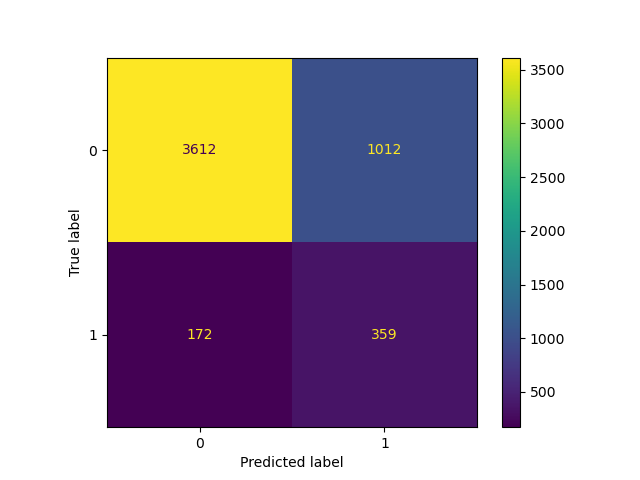
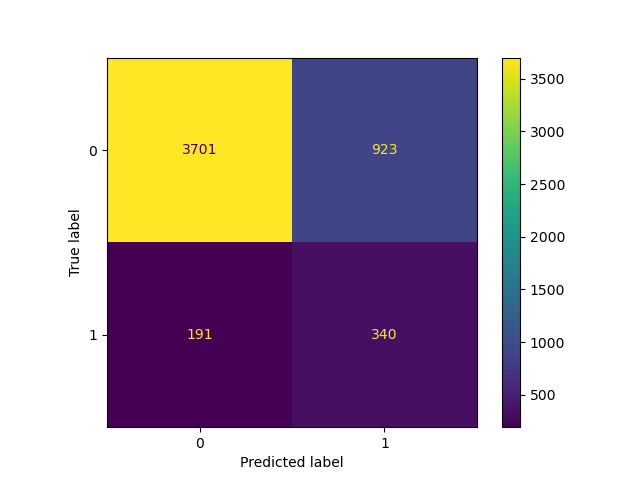
corrected early stopping procedure

diff --git a/src/utils.py b/src/utils.py
@@ -1,6 +1,4 @@
 import logging
-import numpy as np
-import torch
 
 class EarlyStopping:
     """Early stops the training if validation loss doesn't improve after a given patience."""
@@ -18,18 +16,21 @@ class EarlyStopping:
 
     def __call__(self, criterion, opt_mode):
         if opt_mode == 'min':
-            score = -criterion
+            if self.best_score is None: self.best_score = criterion
+            elif criterion >= self.best_score - self.delta:
+                self.counter += 1
+                if self.counter >= self.patience: self.early_stop = True
+            else:
+                self.counter = 0
+                self.best_score = criterion
         elif opt_mode == 'max':
-            score = criterion
+            if self.best_score is None: self.best_score = criterion
+            elif criterion <= self.best_score + self.delta:
+                self.counter += 1
+                if self.counter >= self.patience: self.early_stop = True
+            else:
+                self.counter = 0
+                self.best_score = criterion
         else:
             logging.warning("Unsupported optimizing criterion.")
 
-        if self.best_score is None:
-            self.best_score = score
-        elif score <= self.best_score + self.delta:
-            self.counter += 1
-            if self.counter >= self.patience:
-                self.early_stop = True
-        else:
-            self.counter = 0
-            self.best_score = score

diff --git a/som_gnn.py b/som_gnn.py
@@ -64,8 +64,8 @@ def main():
     --------------------------------------
     """
 
-    #model = GIN(in_dim=dataset.num_features, h_dim=128, out_dim=dataset.num_classes).to(device)
-    model = GAT(in_dim=dataset.num_features, h_dim=64, out_dim=dataset.num_classes, num_heads=4).to(device)
+    model = GIN(in_dim=dataset.num_features, h_dim=128, out_dim=dataset.num_classes).to(device)
+    #model = GAT(in_dim=dataset.num_features, h_dim=64, out_dim=dataset.num_classes, num_heads=4).to(device)
     print(model)
 
     early_stopping = EarlyStopping(patience=5, delta=0.001)

diff --git a/src/process_input_data.py b/src/process_input_data.py
@@ -150,7 +150,7 @@ def process_data(path):
     with open('data/graph.json', 'w') as f:
             f.write(json.dumps(json_graph.node_link_data(G)))
 
-    # Generate and save list of labels
+    # Generate and save list of labe    ls
     labels = []
     for i in range(len(G.nodes)):
         labels.append(int(G.nodes[i]['is_som']))
